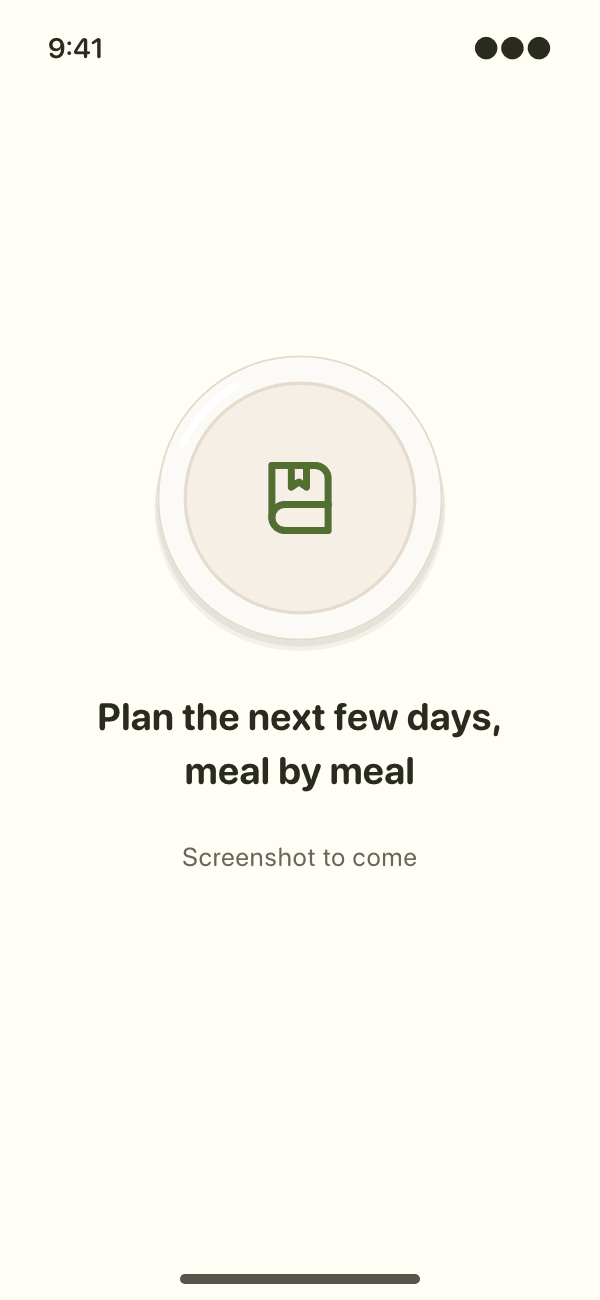
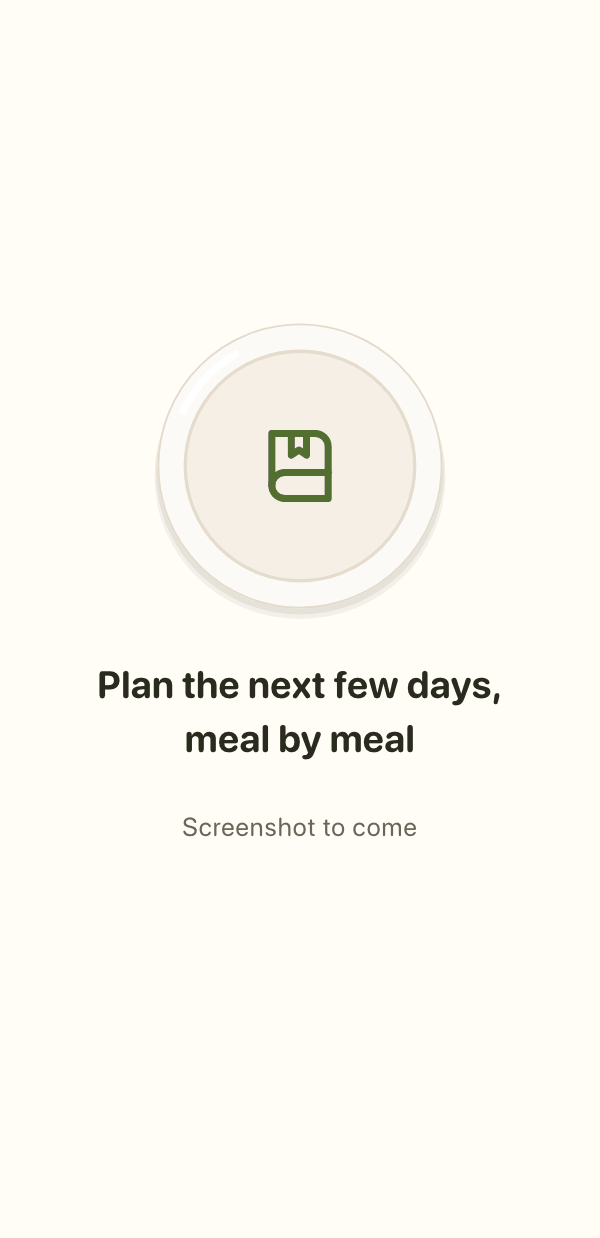
Put the app's 2.1 screenshots in the feature rows
Seven of the rows' screens are now the app's own 2.1 captures (iPhone 17 Pro Max), in
English and Chinese: 食谱库, 厨房, 编辑食谱 with step photos, 采购, the plate camera,
成品照 and 分享这道菜 with the lyric card and its QR code. Each has the status bar cropped
off and is scaled to 600 × 1238 as WebP, about 37 KB.

The photos row's 拍一道菜 now also covers starting a new dish, and the lyric card's screen
shows its QR code, so photos-new and share-qr are gone: the rows have 5, 3 and 3 screens.
Four still wait for captures (餐食, 拍一道菜, the numbered cards, 导入这道菜); their
placeholders now have the real screens' shape.

diff --git a/zh/index.html b/zh/index.html
@@ -94,11 +94,11 @@
     <div class="shots-ctl"><button class="ib" type="button" data-step="-1" aria-label="上一屏"><svg class="i" viewBox="0 0 24 24" aria-hidden="true"><path d="M14.5 5.5 8 12l6.5 6.5"/></svg></button><button class="ib" type="button" data-step="1" aria-label="下一屏"><svg class="i" viewBox="0 0 24 24" aria-hidden="true"><path d="M9.5 5.5 16 12l-6.5 6.5"/></svg></button></div>
   </div>
   <ul class="shots" tabindex="0" aria-label="食谱知识库">
-    <li class="shot"><figure><img src="../assets/shots/zh/library-recipes.png" alt="" width="600" height="1300" loading="lazy" decoding="async"><figcaption>做过的菜，各有各的盘子</figcaption></figure></li>
-    <li class="shot"><figure><img src="../assets/shots/zh/library-kitchen.png" alt="" width="600" height="1300" loading="lazy" decoding="async"><figcaption>每样食材记着单位和常去的店</figcaption></figure></li>
-    <li class="shot"><figure><img src="../assets/shots/zh/library-recipe.png" alt="" width="600" height="1300" loading="lazy" decoding="async"><figcaption>你自己的做法，一步一步记下</figcaption></figure></li>
-    <li class="shot"><figure><img src="../assets/shots/zh/library-plan.png" alt="" width="600" height="1300" loading="lazy" decoding="async"><figcaption>接下来几天，每一餐都排好</figcaption></figure></li>
-    <li class="shot"><figure><img src="../assets/shots/zh/library-shopping.png" alt="" width="600" height="1300" loading="lazy" decoding="async"><figcaption>清单自动算好，按店分好</figcaption></figure></li>
+    <li class="shot"><figure><img src="../assets/shots/zh/library-recipes.webp" alt="" width="600" height="1238" loading="lazy" decoding="async"><figcaption>做过的菜，各有各的盘子</figcaption></figure></li>
+    <li class="shot"><figure><img src="../assets/shots/zh/library-kitchen.webp" alt="" width="600" height="1238" loading="lazy" decoding="async"><figcaption>每样食材记着单位和常去的店</figcaption></figure></li>
+    <li class="shot"><figure><img src="../assets/shots/zh/library-recipe.webp" alt="" width="600" height="1238" loading="lazy" decoding="async"><figcaption>你自己的做法，一步一步记下</figcaption></figure></li>
+    <li class="shot"><figure><img src="../assets/shots/zh/library-plan.png" alt="" width="600" height="1238" loading="lazy" decoding="async"><figcaption>接下来几天，每一餐都排好</figcaption></figure></li>
+    <li class="shot"><figure><img src="../assets/shots/zh/library-shopping.webp" alt="" width="600" height="1238" loading="lazy" decoding="async"><figcaption>清单自动算好，按店分好</figcaption></figure></li>
   </ul>
 </section>
 
@@ -112,10 +112,9 @@
     <div class="shots-ctl"><button class="ib" type="button" data-step="-1" aria-label="上一屏"><svg class="i" viewBox="0 0 24 24" aria-hidden="true"><path d="M14.5 5.5 8 12l6.5 6.5"/></svg></button><button class="ib" type="button" data-step="1" aria-label="下一屏"><svg class="i" viewBox="0 0 24 24" aria-hidden="true"><path d="M9.5 5.5 16 12l-6.5 6.5"/></svg></button></div>
   </div>
   <ul class="shots" tabindex="0" aria-label="成品照">
-    <li class="shot"><figure><img src="../assets/shots/zh/photos-camera.png" alt="" width="600" height="1300" loading="lazy" decoding="async"><figcaption>盘子相机，把菜拍进盘子里</figcaption></figure></li>
-    <li class="shot"><figure><img src="../assets/shots/zh/photos-album.png" alt="" width="600" height="1300" loading="lazy" decoding="async"><figcaption>每做一次，成品照多一张</figcaption></figure></li>
-    <li class="shot"><figure><img src="../assets/shots/zh/photos-snap.png" alt="" width="600" height="1300" loading="lazy" decoding="async"><figcaption>拍一道菜，拍完再选是哪道</figcaption></figure></li>
-    <li class="shot"><figure><img src="../assets/shots/zh/photos-new.png" alt="" width="600" height="1300" loading="lazy" decoding="async"><figcaption>一张照片，记成一道新菜</figcaption></figure></li>
+    <li class="shot"><figure><img src="../assets/shots/zh/photos-camera.webp" alt="" width="600" height="1238" loading="lazy" decoding="async"><figcaption>盘子相机，把菜拍进盘子里</figcaption></figure></li>
+    <li class="shot"><figure><img src="../assets/shots/zh/photos-album.webp" alt="" width="600" height="1238" loading="lazy" decoding="async"><figcaption>每做一次，成品照多一张</figcaption></figure></li>
+    <li class="shot"><figure><img src="../assets/shots/zh/photos-snap.png" alt="" width="600" height="1238" loading="lazy" decoding="async"><figcaption>拍一道菜，选是哪道，或记成新菜</figcaption></figure></li>
   </ul>
 </section>
 
@@ -129,10 +128,9 @@
     <div class="shots-ctl"><button class="ib" type="button" data-step="-1" aria-label="上一屏"><svg class="i" viewBox="0 0 24 24" aria-hidden="true"><path d="M14.5 5.5 8 12l6.5 6.5"/></svg></button><button class="ib" type="button" data-step="1" aria-label="下一屏"><svg class="i" viewBox="0 0 24 24" aria-hidden="true"><path d="M9.5 5.5 16 12l-6.5 6.5"/></svg></button></div>
   </div>
   <ul class="shots" tabindex="0" aria-label="分享">
-    <li class="shot"><figure><img src="../assets/shots/zh/share-lyric.png" alt="" width="600" height="1300" loading="lazy" decoding="async"><figcaption>歌词卡，做法像歌词一样往下读</figcaption></figure></li>
-    <li class="shot"><figure><img src="../assets/shots/zh/share-cards.png" alt="" width="600" height="1300" loading="lazy" decoding="async"><figcaption>步骤多了，接着写在编号卡片上</figcaption></figure></li>
-    <li class="shot"><figure><img src="../assets/shots/zh/share-qr.png" alt="" width="600" height="1300" loading="lazy" decoding="async"><figcaption>扫码收下这道菜</figcaption></figure></li>
-    <li class="shot"><figure><img src="../assets/shots/zh/share-import.png" alt="" width="600" height="1300" loading="lazy" decoding="async"><figcaption>在食序里打开，就能导入</figcaption></figure></li>
+    <li class="shot"><figure><img src="../assets/shots/zh/share-lyric.webp" alt="" width="600" height="1238" loading="lazy" decoding="async"><figcaption>歌词卡，扫码就能收下这道菜</figcaption></figure></li>
+    <li class="shot"><figure><img src="../assets/shots/zh/share-cards.png" alt="" width="600" height="1238" loading="lazy" decoding="async"><figcaption>步骤多了，接着写在编号卡片上</figcaption></figure></li>
+    <li class="shot"><figure><img src="../assets/shots/zh/share-import.png" alt="" width="600" height="1238" loading="lazy" decoding="async"><figcaption>在食序里打开，就能导入</figcaption></figure></li>
   </ul>
 </section>
 <section class="also" aria-label="食序还有">

diff --git a/index.html b/index.html
@@ -95,11 +95,11 @@
     <div class="shots-ctl"><button class="ib" type="button" data-step="-1" aria-label="Previous screens"><svg class="i" viewBox="0 0 24 24" aria-hidden="true"><path d="M14.5 5.5 8 12l6.5 6.5"/></svg></button><button class="ib" type="button" data-step="1" aria-label="Next screens"><svg class="i" viewBox="0 0 24 24" aria-hidden="true"><path d="M9.5 5.5 16 12l-6.5 6.5"/></svg></button></div>
   </div>
   <ul class="shots" tabindex="0" aria-label="Recipe library">
-    <li class="shot"><figure><img src="assets/shots/en/library-recipes.png" alt="" width="600" height="1300" loading="lazy" decoding="async"><figcaption>Every dish you cook, on its own plate</figcaption></figure></li>
-    <li class="shot"><figure><img src="assets/shots/en/library-kitchen.png" alt="" width="600" height="1300" loading="lazy" decoding="async"><figcaption>Ingredients with their units and stores</figcaption></figure></li>
-    <li class="shot"><figure><img src="assets/shots/en/library-recipe.png" alt="" width="600" height="1300" loading="lazy" decoding="async"><figcaption>Your way of cooking it, step by step</figcaption></figure></li>
-    <li class="shot"><figure><img src="assets/shots/en/library-plan.png" alt="" width="600" height="1300" loading="lazy" decoding="async"><figcaption>Plan the next few days, meal by meal</figcaption></figure></li>
-    <li class="shot"><figure><img src="assets/shots/en/library-shopping.png" alt="" width="600" height="1300" loading="lazy" decoding="async"><figcaption>A shopping list, grouped by store</figcaption></figure></li>
+    <li class="shot"><figure><img src="assets/shots/en/library-recipes.webp" alt="" width="600" height="1238" loading="lazy" decoding="async"><figcaption>Every dish you cook, on its own plate</figcaption></figure></li>
+    <li class="shot"><figure><img src="assets/shots/en/library-kitchen.webp" alt="" width="600" height="1238" loading="lazy" decoding="async"><figcaption>Ingredients with their units and stores</figcaption></figure></li>
+    <li class="shot"><figure><img src="assets/shots/en/library-recipe.webp" alt="" width="600" height="1238" loading="lazy" decoding="async"><figcaption>Your way of cooking it, step by step</figcaption></figure></li>
+    <li class="shot"><figure><img src="assets/shots/en/library-plan.png" alt="" width="600" height="1238" loading="lazy" decoding="async"><figcaption>Plan the next few days, meal by meal</figcaption></figure></li>
+    <li class="shot"><figure><img src="assets/shots/en/library-shopping.webp" alt="" width="600" height="1238" loading="lazy" decoding="async"><figcaption>A shopping list, grouped by store</figcaption></figure></li>
   </ul>
 </section>
 
@@ -113,10 +113,9 @@
     <div class="shots-ctl"><button class="ib" type="button" data-step="-1" aria-label="Previous screens"><svg class="i" viewBox="0 0 24 24" aria-hidden="true"><path d="M14.5 5.5 8 12l6.5 6.5"/></svg></button><button class="ib" type="button" data-step="1" aria-label="Next screens"><svg class="i" viewBox="0 0 24 24" aria-hidden="true"><path d="M9.5 5.5 16 12l-6.5 6.5"/></svg></button></div>
   </div>
   <ul class="shots" tabindex="0" aria-label="Dish photos">
-    <li class="shot"><figure><img src="assets/shots/en/photos-camera.png" alt="" width="600" height="1300" loading="lazy" decoding="async"><figcaption>A plate camera that frames the dish</figcaption></figure></li>
-    <li class="shot"><figure><img src="assets/shots/en/photos-album.png" alt="" width="600" height="1300" loading="lazy" decoding="async"><figcaption>Every time you cook it, a new photo</figcaption></figure></li>
-    <li class="shot"><figure><img src="assets/shots/en/photos-snap.png" alt="" width="600" height="1300" loading="lazy" decoding="async"><figcaption>Snap a dish, then say which one it is</figcaption></figure></li>
-    <li class="shot"><figure><img src="assets/shots/en/photos-new.png" alt="" width="600" height="1300" loading="lazy" decoding="async"><figcaption>A photo starts a new recipe</figcaption></figure></li>
+    <li class="shot"><figure><img src="assets/shots/en/photos-camera.webp" alt="" width="600" height="1238" loading="lazy" decoding="async"><figcaption>A plate camera that frames the dish</figcaption></figure></li>
+    <li class="shot"><figure><img src="assets/shots/en/photos-album.webp" alt="" width="600" height="1238" loading="lazy" decoding="async"><figcaption>Every time you cook it, a new photo</figcaption></figure></li>
+    <li class="shot"><figure><img src="assets/shots/en/photos-snap.png" alt="" width="600" height="1238" loading="lazy" decoding="async"><figcaption>Snap a dish, then pick it or start a new recipe</figcaption></figure></li>
   </ul>
 </section>
 
@@ -130,10 +129,9 @@
     <div class="shots-ctl"><button class="ib" type="button" data-step="-1" aria-label="Previous screens"><svg class="i" viewBox="0 0 24 24" aria-hidden="true"><path d="M14.5 5.5 8 12l6.5 6.5"/></svg></button><button class="ib" type="button" data-step="1" aria-label="Next screens"><svg class="i" viewBox="0 0 24 24" aria-hidden="true"><path d="M9.5 5.5 16 12l-6.5 6.5"/></svg></button></div>
   </div>
   <ul class="shots" tabindex="0" aria-label="Sharing">
-    <li class="shot"><figure><img src="assets/shots/en/share-lyric.png" alt="" width="600" height="1300" loading="lazy" decoding="async"><figcaption>The lyric card: steps that read like a song</figcaption></figure></li>
-    <li class="shot"><figure><img src="assets/shots/en/share-cards.png" alt="" width="600" height="1300" loading="lazy" decoding="async"><figcaption>Long recipes run on over numbered cards</figcaption></figure></li>
-    <li class="shot"><figure><img src="assets/shots/en/share-qr.png" alt="" width="600" height="1300" loading="lazy" decoding="async"><figcaption>Scan to keep this dish</figcaption></figure></li>
-    <li class="shot"><figure><img src="assets/shots/en/share-import.png" alt="" width="600" height="1300" loading="lazy" decoding="async"><figcaption>It opens in Shiso, ready to add</figcaption></figure></li>
+    <li class="shot"><figure><img src="assets/shots/en/share-lyric.webp" alt="" width="600" height="1238" loading="lazy" decoding="async"><figcaption>The lyric card, with a QR code that brings the dish</figcaption></figure></li>
+    <li class="shot"><figure><img src="assets/shots/en/share-cards.png" alt="" width="600" height="1238" loading="lazy" decoding="async"><figcaption>Long recipes run on over numbered cards</figcaption></figure></li>
+    <li class="shot"><figure><img src="assets/shots/en/share-import.png" alt="" width="600" height="1238" loading="lazy" decoding="async"><figcaption>It opens in Shiso, ready to add</figcaption></figure></li>
   </ul>
 </section>
 <section class="also" aria-label="Also in Shiso">

diff --git a/README.md b/README.md
@@ -42,23 +42,21 @@ The slogan stays put as the page's `h1`, set small. Under it a big title and a l
 
 The home page shows three features, in this order of importance: the recipe library (`#library`), dish photos (`#photos`) and sharing (`#share`). Each first says what it's for, with an eyebrow, a heading and a line, then shows a row of the app's screens to swipe through, with a line under each. A row is a plain list that scrolls sideways and snaps to each screen. On wider pages two buttons move it one screen at a time (`createShots` in `assets/site.js`); on phones it's swiped, and the next screen peeks in at the edge.
 
-The screens are `assets/shots/<en|zh>/<slot>.png`, 600 × 1300 pixels, an iPhone screenshot's shape. Until the app's own screenshots are in, they're placeholders that say 截图待补 / Screenshot to come. To change one, replace its file and keep the name; a screen of another shape needs its `width` and `height` changed in both pages.
+The screens are the app's own, in `assets/shots/<en|zh>/<slot>.webp`. They're 2.1 screenshots from an iPhone 17 Pro Max (1320 × 2868), with the status bar's top 144 pixels cut off, then scaled to 600 × 1238 and saved as WebP at quality 82. A slot still waiting for its screenshot has a placeholder `.png` of the same size that says 截图待补 / Screenshot to come. To change a screen, treat the new capture the same way and keep its name. A screen of another shape needs its `width` and `height` changed in both pages.
 
-| Slot | Shows |
-| --- | --- |
-| `library-recipes` | 食谱库, the dishes on their plates |
-| `library-kitchen` | 厨房, ingredients with their units and stores |
-| `library-recipe` | A recipe, with its ingredients and steps |
-| `library-plan` | 餐食, the days ahead and their meals |
-| `library-shopping` | 采购, the list grouped by store |
-| `photos-camera` | The plate camera |
-| `photos-album` | 成品照, a dish's photos over time |
-| `photos-snap` | 拍一道菜, then 是哪道菜？ |
-| `photos-new` | A new recipe started from a photo |
-| `share-lyric` | The lyric card (歌词卡) |
-| `share-cards` | The numbered cards a long lyric card runs on over |
-| `share-qr` | A card's QR code, with 扫码收下这道菜 |
-| `share-import` | 导入这道菜, a shared dish opening in the app |
+| Slot | Shows | Screen |
+| --- | --- | --- |
+| `library-recipes` | 食谱库, the dishes on their plates | 2.1 capture |
+| `library-kitchen` | 厨房, ingredients with their units and stores | 2.1 capture |
+| `library-recipe` | 编辑食谱, the ingredients and the steps with their photos | 2.1 capture |
+| `library-plan` | 餐食, the days ahead and their meals | placeholder |
+| `library-shopping` | 采购, the list grouped by store | 2.1 capture |
+| `photos-camera` | The plate camera | 2.1 capture |
+| `photos-album` | 成品照, a dish's photos over time | 2.1 capture |
+| `photos-snap` | 拍一道菜, then 是哪道菜？ or a new dish | placeholder |
+| `share-lyric` | 分享这道菜 with the lyric card and its QR code | 2.1 capture |
+| `share-cards` | The numbered cards a long lyric card runs on over | placeholder |
+| `share-import` | 导入这道菜, a shared dish opening in the app | placeholder |
 
 ## Changing text
 
